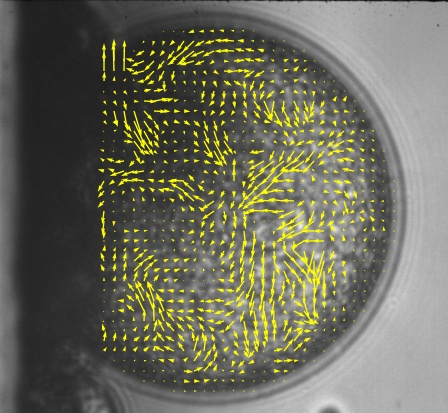
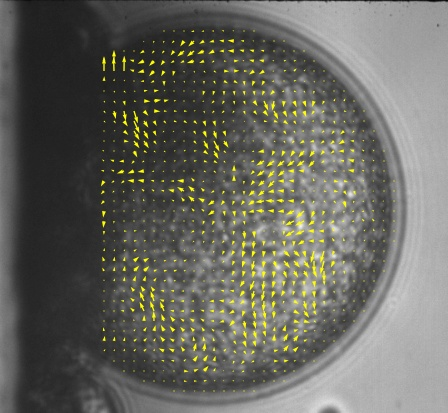
change scale factor to 2

Changed region(s): [[0.2188, 0.0581, 0.8438, 0.9298]]

diff --git a/piv_overlay.py b/piv_overlay.py
@@ -89,7 +89,7 @@ if __name__=="__main__": # whether the following script will be executed when ru
         ax = fig.add_axes([0, 0, 1, 1])
         ax.imshow(img, cmap='gray')
         ax.quiver(xs, ys, us, vs, color='yellow', width=0.003, \
-                    scale_units="dots", scale=1) # it's better to set a fixed scale
+                    scale_units="dots", scale=2) # it's better to set a fixed scale
         ax.axis('off')
         # outfolder = folder.replace(pivDataFolder, output_folder) #
         # if os.path.exists(outfolder) == False:
